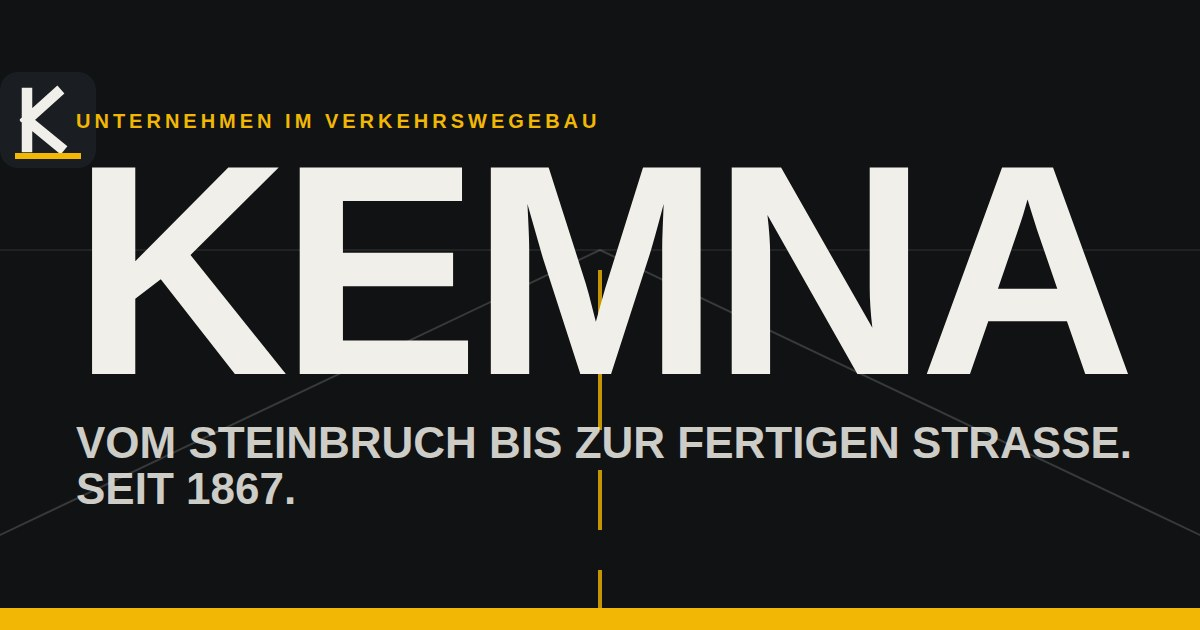
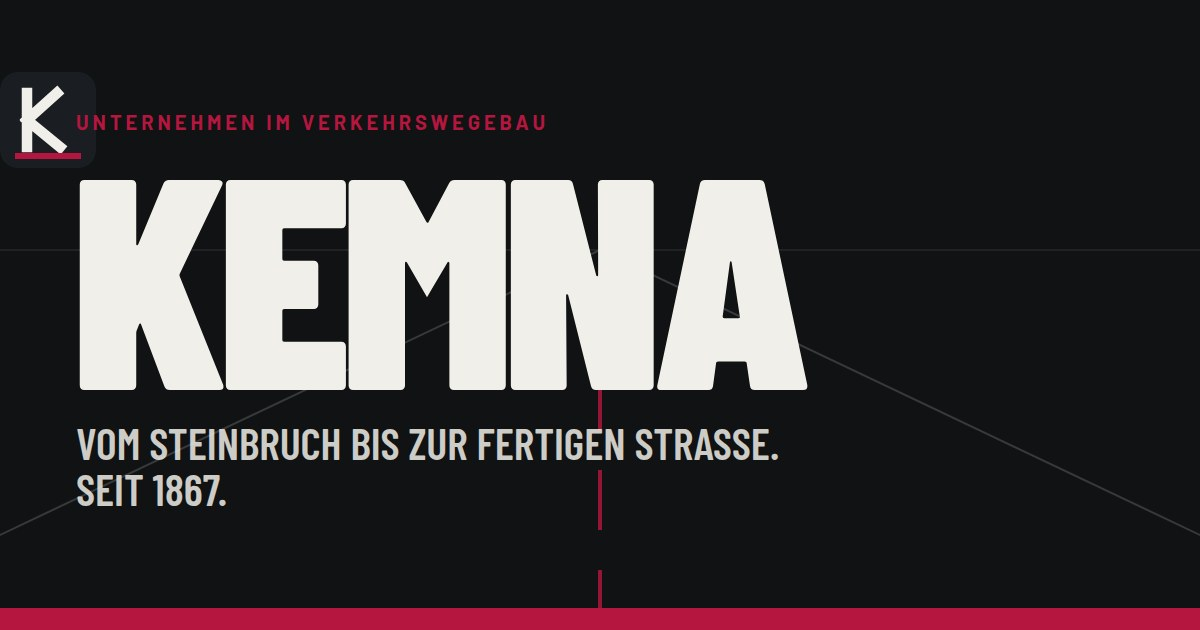
KEMNA: Farbschema auf Markenrot umgestellt
- Akzent #B5163F aus dem KEMNA-Logo gemessen; --accent-2 dunkler,
  --accent-text für Schrift auf Hell, neues --accent-light für Schrift
  und Akzente auf dunklem Grund (alle Paare ≥ 5,8:1)
- Rote Flächen (Buttons, Hero-Band, Karriere, Karriere-Slide, Chips,
  Gruppen-Marquee) tragen jetzt helle Schrift statt Ink
- Karriere-Sektion mit dunklem Nav-Thema, Tag darauf hell
- Straßenmittellinie, Asphalt-Hitzegradient, Schichtgrafik, Favicon,
  Apple-Touch-Icon, OG-Bild und Rechtsseiten nachgezogen
- OG-Bild jetzt mit echten Barlow-Schnitten gerendert
- README/DESIGN: Farbtabelle und Beschreibungen auf Rot

Claude-Session: https://claude.ai/code/session_01PZ8DJtPyt37yMJG6BSg7Dj

Changed region(s): [[0.0, 0.2413, 0.9558, 0.8143], [0.0, 0.9048, 1.0, 1.0], [0.0617, 0.181, 0.4933, 0.2111]]

diff --git a/kemna/style.css b/kemna/style.css
@@ -4,9 +4,10 @@
   --ink:#111214;
   --ink-2:#55575B;
   --ink-3:#8C8E92;
-  --accent:#F2B705;
-  --accent-2:#D99E00;
-  --accent-text:#8A5B00;
+  --accent:#B5163F;
+  --accent-2:#8F1132;
+  --accent-light:#FF5C6C;
+  --accent-text:#A3123A;
   --dark:#101214;
   --dark-2:#1A1D21;
   --display:'Barlow Condensed',Impact,'Arial Narrow',sans-serif;
@@ -32,14 +33,14 @@ a,button,[role="button"]{touch-action:manipulation}
 h1,h2,h3,h4,p,ol,ul{margin:0}
 ol,ul{padding:0;list-style:none}
 .sr-only{position:absolute;width:1px;height:1px;overflow:hidden;clip:rect(0 0 0 0);white-space:nowrap}
-::selection{background:var(--accent);color:var(--ink)}
+::selection{background:var(--accent);color:var(--paper)}
 
 /* ---------- Ankerziele nicht unter der festen Nav ---------- */
 section[id],[id="inhalt"],[id="top"]{scroll-margin-top:clamp(80px,12vh,120px)}
 
 /* ---------- focus ---------- */
 :focus-visible{outline:3px solid var(--ink);outline-offset:3px}
-.hero :focus-visible,.menu :focus-visible,.kette :focus-visible,.green :focus-visible,.footer :focus-visible,.project--wide :focus-visible,.nav.is-dark :focus-visible{outline-color:var(--accent)}
+.hero :focus-visible,.menu :focus-visible,.kette :focus-visible,.green :focus-visible,.footer :focus-visible,.project--wide :focus-visible,.nav.is-dark :focus-visible{outline-color:var(--accent-light)}
 .menu__links a:focus-visible{opacity:1}
 [tabindex="-1"]:focus{outline:none}
 .skip{position:absolute;left:var(--gutter);top:-100px;z-index:210;background:var(--ink);color:var(--paper);font-family:var(--display);font-weight:800;text-transform:uppercase;font-size:18px;padding:14px 20px;border-radius:10px;transition:top .2s var(--ease-out)}
@@ -48,7 +49,7 @@ section[id],[id="inhalt"],[id="top"]{scroll-margin-top:clamp(80px,12vh,120px)}
 /* ---------- buttons ---------- */
 .btn{display:inline-flex;align-items:center;gap:10px;font-family:var(--display);font-weight:800;text-transform:uppercase;letter-spacing:.02em;font-size:20px;line-height:1;padding:16px 26px;border-radius:12px;user-select:none;-webkit-user-select:none;transition:transform .16s var(--ease-out),background .2s ease,color .2s ease,border-color .2s ease}
 .btn i{font-style:normal;transition:transform .25s var(--ease-out)}
-.btn--accent{background:var(--accent);color:var(--ink);border:2px solid var(--ink)}
+.btn--accent{background:var(--accent);color:var(--paper);border:2px solid var(--accent-2)}
 .btn--ink{background:var(--ink);color:var(--paper);border:2px solid var(--ink)}
 .btn--outline{border:2px solid rgba(17,18,20,.3);color:var(--ink)}
 .btn--lg{font-size:24px;padding:20px 32px}
@@ -56,7 +57,7 @@ section[id],[id="inhalt"],[id="top"]{scroll-margin-top:clamp(80px,12vh,120px)}
 
 /* ---------- tags & headings ---------- */
 .tag{display:inline-block;font-family:var(--mono);font-size:13px;letter-spacing:.08em;padding:8px 14px;border:1px solid rgba(17,18,20,.3);border-radius:8px;margin-bottom:28px;color:var(--accent-text)}
-.tag--light{border-color:rgba(241,239,233,.3);color:var(--accent)}
+.tag--light{border-color:rgba(241,239,233,.3);color:var(--accent-light)}
 .tag--ink{border-color:rgba(17,18,20,.5);color:var(--ink)}
 .sec-h{font-family:var(--display);font-weight:900;text-transform:uppercase;line-height:.95;padding-top:.06em;letter-spacing:-.015em;font-size:clamp(52px,8vw,130px);text-wrap:balance}
 h1,h2,h3,.hero__claim,.kette__h,.green__h,.career__h,.callout__h,.intro__h,.project__h,.station h3,.era__text h3,.field__text h3{text-wrap:balance}
@@ -94,7 +95,7 @@ body.menu-open .nav{transform:none}
 .nav.is-dark .nav__burger{border-color:var(--paper)}
 body.menu-open{overflow:hidden}
 body.menu-open .nav{color:var(--paper)}
-body.menu-open .nav__cta{background:var(--accent);color:var(--ink);border-color:var(--ink)}
+body.menu-open .nav__cta{background:var(--accent);color:var(--paper);border-color:var(--accent-2)}
 body.menu-open .nav__burger{border-color:var(--paper)}
 body.menu-open .nav__burger span:first-child{transform:translateY(4.75px) rotate(45deg)}
 body.menu-open .nav__burger span:last-child{width:26px;transform:translateY(-4.75px) rotate(-45deg)}
@@ -121,15 +122,15 @@ body.menu-open .nav__burger span:last-child{width:26px;transform:translateY(-4.7
 .hero__road svg{width:100%;height:100%}
 .hero__noise{position:absolute;inset:0;z-index:1;pointer-events:none;opacity:.07;background-image:url("assets/img/noise.svg")}
 .hero__inner{position:absolute;inset:0;z-index:2;display:flex;flex-direction:column;align-items:center;justify-content:center;text-align:center;padding:0 var(--gutter)}
-.hero__eyebrow{font-size:12px;font-weight:700;letter-spacing:.2em;text-transform:uppercase;color:var(--accent);margin-bottom:clamp(14px,2vh,26px)}
+.hero__eyebrow{font-size:12px;font-weight:700;letter-spacing:.2em;text-transform:uppercase;color:var(--accent-light);margin-bottom:clamp(14px,2vh,26px)}
 .hero__title{font-family:var(--display);font-weight:900;text-transform:uppercase;line-height:.8;letter-spacing:-.03em;font-size:clamp(100px,22vw,420px);white-space:nowrap;user-select:none;-webkit-user-select:none;will-change:transform,opacity}
 .hero__title .ch{display:inline-block}
 .hero__claim{margin-top:clamp(18px,3vh,34px);font-family:var(--display);font-weight:600;text-transform:uppercase;font-size:clamp(20px,2.4vw,34px);line-height:1.05;letter-spacing:.01em;color:rgba(241,239,233,.92)}
-.hero__band{position:absolute;left:-10vw;right:-10vw;top:50%;z-index:3;background:var(--accent);color:var(--ink);transform:translateY(-50%) rotate(-4deg);padding:clamp(14px,1.6vw,24px) 0;overflow:hidden;opacity:0;pointer-events:none;will-change:transform,opacity}
+.hero__band{position:absolute;left:-10vw;right:-10vw;top:50%;z-index:3;background:var(--accent);color:var(--paper);transform:translateY(-50%) rotate(-4deg);padding:clamp(14px,1.6vw,24px) 0;overflow:hidden;opacity:0;pointer-events:none;will-change:transform,opacity}
 .hero__band-track{display:flex;width:max-content;white-space:nowrap;font-family:var(--display);font-weight:900;text-transform:uppercase;font-size:clamp(40px,6vw,96px);line-height:.9;letter-spacing:-.01em}
 .hero__band-track span{display:inline-block;will-change:transform}
 .hero__meta{position:absolute;left:max(var(--gutter),env(safe-area-inset-left));bottom:max(var(--gutter),env(safe-area-inset-bottom));z-index:4;display:flex;flex-direction:column;gap:6px;font-size:11px;font-weight:700;letter-spacing:.14em;text-transform:uppercase;color:rgba(241,239,233,.82)}
-.hero__meta span::before{content:"";display:inline-block;width:8px;height:8px;background:var(--accent);margin-right:10px;vertical-align:1px}
+.hero__meta span::before{content:"";display:inline-block;width:8px;height:8px;background:var(--accent-light);margin-right:10px;vertical-align:1px}
 .hero__scroll{position:absolute;right:max(var(--gutter),env(safe-area-inset-right));bottom:max(var(--gutter),env(safe-area-inset-bottom));z-index:4;display:flex;flex-direction:column;align-items:center;gap:10px;font-size:10px;font-weight:700;letter-spacing:.14em;text-transform:uppercase}
 .hero__scroll i{width:1.5px;height:44px;background:var(--paper);display:block;transform-origin:top;animation:scrollline 1.8s cubic-bezier(.65,0,.35,1) infinite}
 @keyframes scrollline{0%{transform:scaleY(0);transform-origin:top}45%{transform:scaleY(1);transform-origin:top}55%{transform:scaleY(1);transform-origin:bottom}100%{transform:scaleY(0);transform-origin:bottom}}
@@ -178,7 +179,7 @@ body.menu-open .nav__burger span:last-child{width:26px;transform:translateY(-4.7
 .kette__pin{height:100vh;height:100svh;overflow:hidden;position:relative}
 .kette__pin::before{content:"";position:absolute;inset:0;background:repeating-linear-gradient(0deg,rgba(255,255,255,.035) 0 1px,transparent 1px 72px),repeating-linear-gradient(90deg,rgba(255,255,255,.035) 0 1px,transparent 1px 72px);-webkit-mask:radial-gradient(ellipse at 50% 50%,#000 30%,transparent 85%);mask:radial-gradient(ellipse at 50% 50%,#000 30%,transparent 85%);pointer-events:none}
 .kette__marker{position:absolute;left:0;right:0;top:50%;height:2px;background:rgba(241,239,233,.12);pointer-events:none}
-.kette__marker::after{content:"";position:absolute;left:50%;top:50%;width:14px;height:14px;border-radius:50%;background:var(--accent);transform:translate(-50%,-50%);box-shadow:0 0 0 6px rgba(242,183,5,.18),0 0 26px 8px rgba(242,183,5,.45)}
+.kette__marker::after{content:"";position:absolute;left:50%;top:50%;width:14px;height:14px;border-radius:50%;background:var(--accent);transform:translate(-50%,-50%);box-shadow:0 0 0 6px rgba(255,92,108,.18),0 0 26px 8px rgba(255,92,108,.45)}
 .kette__track{position:absolute;inset:0;display:flex;align-items:center;gap:clamp(40px,6vw,120px);padding:0 var(--gutter);width:max-content;will-change:transform}
 .kette__intro{flex:none;width:clamp(320px,38vw,620px);padding-right:clamp(20px,4vw,80px)}
 .kette__h{font-family:var(--display);font-weight:900;text-transform:uppercase;line-height:.88;letter-spacing:-.02em;font-size:clamp(64px,9vw,150px)}
@@ -186,12 +187,12 @@ body.menu-open .nav__burger span:last-child{width:26px;transform:translateY(-4.7
 .kette__list{display:flex;gap:clamp(40px,6vw,120px);align-items:center}
 .station{flex:none;width:clamp(260px,26vw,380px);position:relative;transition:color .4s}
 .station__num{display:block;font-family:var(--display);font-weight:900;font-size:22px;color:rgba(241,239,233,.55);margin-bottom:18px;transition:color .4s}
-.station.is-active .station__num{color:var(--accent)}
+.station.is-active .station__num{color:var(--accent-light)}
 .station__icon{width:80px;height:80px;margin-bottom:22px;color:var(--paper);opacity:.85}
 .station h3{font-family:var(--display);font-weight:800;text-transform:uppercase;font-size:clamp(34px,3.4vw,52px);line-height:.95;margin-bottom:12px}
 .station p{font-size:15px;line-height:1.6;color:rgba(241,239,233,.72);max-width:320px}
 .kette__end{flex:none;display:flex;flex-direction:column;justify-content:center;padding:0 clamp(40px,8vw,160px) 0 clamp(20px,4vw,80px)}
-.kette__end-big{font-family:var(--display);font-weight:900;font-size:clamp(120px,18vw,300px);line-height:.85;letter-spacing:-.03em;color:var(--accent)}
+.kette__end-big{font-family:var(--display);font-weight:900;font-size:clamp(120px,18vw,300px);line-height:.85;letter-spacing:-.03em;color:var(--accent-light)}
 .kette__end-small{font-family:var(--display);font-weight:600;text-transform:uppercase;font-size:clamp(22px,2.4vw,36px);margin-top:10px}
 @media (max-width:760px){.kette__intro{width:80vw}.station{width:74vw}.station p{max-width:100%}.kette__marker{display:none}}
 /* Ohne GSAP bleibt die Kette sonst hinter dem Rand liegen — dann als Liste untereinander */
@@ -211,7 +212,7 @@ body.menu-open .nav__burger span:last-child{width:26px;transform:translateY(-4.7
 .project{display:flex;flex-direction:column;gap:14px;min-width:0;background:#fff;border:1px solid rgba(17,18,20,.12);border-radius:18px;padding:clamp(24px,2.6vw,38px);min-height:320px;transition:transform .25s var(--ease-out),box-shadow .25s var(--ease-out)}
 .project--wide{grid-column:span 2;background:var(--ink);color:var(--paper);border-color:var(--ink)}
 .project__kind{font-size:12px;font-weight:700;letter-spacing:.14em;text-transform:uppercase;color:var(--accent-text)}
-.project--wide .project__kind{color:var(--accent)}
+.project--wide .project__kind{color:var(--accent-light)}
 .project__h{font-family:var(--display);font-weight:800;text-transform:uppercase;font-size:clamp(30px,3vw,46px);line-height:.95;overflow-wrap:anywhere}
 .project--wide .project__h{font-size:clamp(40px,4.6vw,76px)}
 .project p{flex:1;font-size:15px;line-height:1.6;color:var(--ink-2);max-width:520px}
@@ -234,7 +235,7 @@ body.menu-open .nav__burger span:last-child{width:26px;transform:translateY(-4.7
 .green__list{display:flex;flex-direction:column}
 .green__item{padding:clamp(26px,3vw,44px) 0;border-top:1px solid rgba(241,239,233,.18);display:grid;grid-template-columns:60px 1fr;gap:6px 20px}
 .green__item:last-child{border-bottom:1px solid rgba(241,239,233,.18)}
-.green__num{font-family:var(--display);font-weight:900;font-size:26px;color:var(--accent);grid-row:1/3}
+.green__num{font-family:var(--display);font-weight:900;font-size:26px;color:var(--accent-light);grid-row:1/3}
 .green__item h3{font-family:var(--display);font-weight:800;text-transform:uppercase;font-size:clamp(26px,2.4vw,38px);line-height:1}
 .green__item p{font-size:15px;line-height:1.6;color:rgba(241,239,233,.72);max-width:440px}
 @media (max-width:900px){.green__inner{grid-template-columns:1fr}}
@@ -287,7 +288,7 @@ body.menu-open .nav__burger span:last-child{width:26px;transform:translateY(-4.7
 @media (prefers-reduced-motion:no-preference){.slides__track{scroll-behavior:smooth}}
 .slide{flex:none;scroll-snap-align:start;width:min(calc(100% - 72px),1120px);min-height:clamp(380px,44vw,560px);display:grid;grid-template-columns:1.05fr .95fr;border-radius:var(--r-lg);overflow:hidden;background:var(--dark);color:var(--paper)}
 .slide__text{display:flex;flex-direction:column;justify-content:flex-end;gap:18px;padding:clamp(28px,4vw,64px)}
-.slide__kicker{font-family:var(--mono);font-size:12px;letter-spacing:.12em;text-transform:uppercase;color:var(--accent)}
+.slide__kicker{font-family:var(--mono);font-size:12px;letter-spacing:.12em;text-transform:uppercase;color:var(--accent-light)}
 .slide__h{font-family:var(--display);font-weight:900;text-transform:uppercase;line-height:.92;letter-spacing:-.015em;font-size:clamp(38px,4.6vw,72px);text-wrap:balance}
 .slide__p{max-width:460px;font-size:clamp(15px,1.15vw,18px);line-height:1.6;color:rgba(241,239,233,.8);text-wrap:pretty}
 .slide__link{align-self:flex-start;display:inline-flex;align-items:center;gap:10px;margin-top:6px;padding-bottom:4px;border-bottom:2px solid currentColor;font-family:var(--display);font-weight:800;text-transform:uppercase;font-size:20px;line-height:1;color:inherit;text-decoration:none;touch-action:manipulation;-webkit-tap-highlight-color:transparent}
@@ -298,23 +299,23 @@ body.menu-open .nav__burger span:last-child{width:26px;transform:translateY(-4.7
 .slide--people .slide__visual{display:flex;align-items:center;padding:clamp(28px,4vw,64px);background:var(--dark-2)}
 .slide__roles{display:flex;flex-wrap:wrap;gap:10px;margin:0;padding:0;list-style:none}
 .slide__roles li{font-family:var(--display);font-weight:700;text-transform:uppercase;font-size:clamp(18px,1.8vw,26px);line-height:1;padding:12px 16px;border:1.5px solid rgba(241,239,233,.35);border-radius:10px;color:var(--paper)}
-.slide__roles li:nth-child(3n){background:var(--accent);border-color:var(--accent);color:var(--ink)}
+.slide__roles li:nth-child(3n){background:var(--accent);border-color:var(--accent);color:var(--paper)}
 /* 02 Nachhaltigkeit: Werksfoto mit Marken */
 .slide--green .slide__visual img{position:absolute;inset:0;width:100%;height:100%;object-fit:cover;object-position:40% 50%}
 .slide--green .slide__visual::after{content:"";position:absolute;inset:0;background:linear-gradient(to right,rgba(16,18,20,.55),rgba(16,18,20,0) 40%)}
 .slide__marks{position:absolute;left:clamp(20px,3vw,40px);bottom:clamp(20px,3vw,40px);z-index:1;display:flex;flex-wrap:wrap;gap:8px;margin:0;padding:0;list-style:none}
 .slide__marks li{font-family:var(--mono);font-size:12px;letter-spacing:.08em;padding:8px 12px;border-radius:8px;background:rgba(16,18,20,.7);border:1px solid rgba(241,239,233,.25);color:var(--paper);backdrop-filter:blur(6px);-webkit-backdrop-filter:blur(6px)}
-/* 03 Karriere: Gelb, Streifen, Störer */
-.slide--career{background:var(--accent);color:var(--ink)}
-.slide--career .slide__kicker{color:var(--ink)}
-.slide--career .slide__p{color:rgba(17,18,20,.78)}
+/* 03 Karriere: Rot, Streifen, Störer */
+.slide--career{background:var(--accent);color:var(--paper)}
+.slide--career .slide__kicker{color:var(--paper)}
+.slide--career .slide__p{color:rgba(241,239,233,.82)}
 .slide--career .slide__visual{display:flex;align-items:flex-end;justify-content:flex-end;padding:clamp(28px,4vw,64px)}
 .slide__stripes{display:flex;gap:clamp(12px,1.6vw,22px);height:70%}
 .slide__stripes i{display:block;width:clamp(16px,2vw,32px);background:var(--ink);transform:skewX(-14deg);transform-origin:bottom;align-self:flex-end;height:100%}
 .slide__stripes i:nth-child(1){height:55%}
 .slide__stripes i:nth-child(2){height:80%}
 .slide__stripes i:nth-child(3){height:65%}
-.slide__badge{position:absolute;left:clamp(20px,3vw,48px);top:clamp(20px,3vw,48px);width:clamp(130px,15vw,200px);aspect-ratio:1;border-radius:50%;display:grid;place-items:center;padding:14px;text-align:center;background:var(--ink);color:var(--accent);font-family:var(--display);font-weight:900;text-transform:uppercase;font-size:clamp(22px,2.6vw,36px);line-height:.9;transform:rotate(-12deg)}
+.slide__badge{position:absolute;left:clamp(20px,3vw,48px);top:clamp(20px,3vw,48px);width:clamp(130px,15vw,200px);aspect-ratio:1;border-radius:50%;display:grid;place-items:center;padding:14px;text-align:center;background:var(--ink);color:var(--accent-light);font-family:var(--display);font-weight:900;text-transform:uppercase;font-size:clamp(22px,2.6vw,36px);line-height:.9;transform:rotate(-12deg)}
 .no-js .slides__nav,.js-failed .slides__nav{display:none}
 @media (max-width:760px){
   .slides__head{flex-direction:column;align-items:flex-start;gap:20px}
@@ -335,16 +336,17 @@ body.menu-open .nav__burger span:last-child{width:26px;transform:translateY(-4.7
 .group__track{display:flex;width:max-content;gap:clamp(14px,1.6vw,24px);will-change:transform}
 .group__track span{display:inline-block;white-space:nowrap;font-family:var(--display);font-weight:800;text-transform:uppercase;font-size:clamp(28px,3.6vw,56px);line-height:1;padding:clamp(12px,1.4vw,20px) clamp(18px,2.2vw,32px);border:1.5px solid var(--ink);border-radius:12px;background:var(--paper)}
 .group__track[data-group-track="-1"] span:nth-child(odd){background:var(--ink);color:var(--paper)}
-.group__track[data-group-track="1"] span:nth-child(even){background:var(--accent);border-color:var(--ink)}
+.group__track[data-group-track="1"] span:nth-child(even){background:var(--accent);border-color:var(--accent-2);color:var(--paper)}
 @media (max-width:760px){.group__head{grid-template-columns:1fr}.group__p{justify-self:start}}
 
-/* ---------- career (loud yellow) ---------- */
-.career{padding:clamp(90px,10vw,150px) var(--gutter);background:var(--accent);color:var(--ink);position:relative;overflow:hidden}
+/* ---------- career (Markenrot) ---------- */
+.career{padding:clamp(90px,10vw,150px) var(--gutter);background:var(--accent);color:var(--paper);position:relative;overflow:hidden}
 .career__inner{position:relative;display:grid;grid-template-columns:1.2fr .8fr;gap:clamp(30px,5vw,80px);align-items:center;max-width:1500px;margin:0 auto}
 .career__h{font-family:var(--display);font-weight:900;text-transform:uppercase;line-height:.88;letter-spacing:-.02em;font-size:clamp(60px,10vw,170px)}
 .career__p{margin:26px 0 34px;max-width:520px;font-size:clamp(16px,1.25vw,19px);line-height:1.6}
 .career__actions{display:flex;gap:14px;flex-wrap:wrap}
-.career .btn--outline{border-color:rgba(17,18,20,.45)}
+.career .btn--outline{border-color:rgba(241,239,233,.55);color:var(--paper)}
+.career .tag{border-color:rgba(241,239,233,.45);color:var(--paper)}
 .career__stripes{display:flex;gap:clamp(14px,2vw,30px);justify-content:flex-end;height:clamp(200px,34vh,420px)}
 .career__stripes i{display:block;width:clamp(18px,2.6vw,42px);background:var(--ink);transform:skewX(-14deg);transform-origin:bottom}
 .career__stripes i:nth-child(2){height:80%;align-self:flex-end}
@@ -371,7 +373,7 @@ body.menu-open .nav__burger span:last-child{width:26px;transform:translateY(-4.7
 .footer{position:relative;background:var(--dark);color:var(--paper);padding:clamp(70px,8vw,120px) var(--gutter) max(30px,env(safe-area-inset-bottom));overflow:hidden}
 .footer__top{position:relative;display:grid;grid-template-columns:1.2fr 1fr;gap:clamp(40px,5vw,90px);align-items:end}
 .footer__brand{display:flex;flex-direction:column;gap:14px}
-.footer__big{font-family:var(--display);font-weight:900;text-transform:uppercase;line-height:.82;letter-spacing:-.03em;font-size:clamp(80px,13vw,220px);white-space:nowrap;user-select:none;-webkit-user-select:none;color:var(--accent)}
+.footer__big{font-family:var(--display);font-weight:900;text-transform:uppercase;line-height:.82;letter-spacing:-.03em;font-size:clamp(80px,13vw,220px);white-space:nowrap;user-select:none;-webkit-user-select:none;color:var(--accent-light)}
 .footer__big .ch{display:inline-block}
 .footer__tag{font-size:12px;font-weight:700;letter-spacing:.14em;text-transform:uppercase;opacity:.75}
 .footer__cols{display:grid;grid-template-columns:repeat(3,1fr);gap:24px}
@@ -397,12 +399,12 @@ body.menu-open .nav__burger span:last-child{width:26px;transform:translateY(-4.7
   .nav__cta:hover{transform:none}
   .nav__burger:hover{background:var(--ink);color:var(--paper)}
   .nav.is-dark .nav__burger:hover{background:var(--paper);color:var(--ink)}
-  .menu__links a:hover{opacity:1;transform:translateX(12px);color:var(--accent)}
-  .menu__foot a:hover{color:var(--accent)}
+  .menu__links a:hover{opacity:1;transform:translateX(12px);color:var(--accent-light)}
+  .menu__foot a:hover{color:var(--accent-light)}
   .project:hover{transform:translateY(-8px);box-shadow:0 40px 70px -40px rgba(17,18,20,.5)}
   .callout__card a:hover{color:var(--ink)}
-  .footer__cols a:hover{color:var(--accent)}
-  .footer__bottom a:hover{color:var(--accent)}
+  .footer__cols a:hover{color:var(--accent-light)}
+  .footer__bottom a:hover{color:var(--accent-light)}
 }
 
 /* ---------- responsive ---------- */

diff --git a/kemna/impressum.html b/kemna/impressum.html
@@ -16,20 +16,20 @@
   *{box-sizing:border-box}
   html{-webkit-text-size-adjust:100%}
   body{margin:0;background:#F1EFE9;color:#111214;font-family:'Barlow',-apple-system,system-ui,sans-serif;font-weight:400;-webkit-font-smoothing:antialiased}
-  a{color:#8A5B00;text-decoration:none}
+  a{color:#A3123A;text-decoration:none}
   a:hover{text-decoration:underline}
   :focus-visible{outline:3px solid #111214;outline-offset:3px}
   nav{position:sticky;top:0;z-index:60;display:flex;align-items:center;justify-content:space-between;gap:20px;padding:14px clamp(20px,5vw,64px);background:rgba(241,239,233,.92);backdrop-filter:blur(10px);-webkit-backdrop-filter:blur(10px);border-bottom:1px solid rgba(17,18,20,.1)}
   nav .mark{font-family:'Barlow Condensed',Impact,sans-serif;font-weight:900;font-size:28px;text-transform:uppercase;color:#111214;letter-spacing:-.01em}
   nav .back{background:#111214;color:#F1EFE9;font-family:'Barlow Condensed',Impact,sans-serif;font-weight:800;text-transform:uppercase;font-size:17px;padding:11px 20px;border-radius:10px}
-  nav .back:hover{text-decoration:none;background:#F2B705;color:#111214}
+  nav .back:hover{text-decoration:none;background:#B5163F;color:#F1EFE9}
   .wrap{max-width:820px;margin:0 auto;padding:clamp(48px,7vw,96px) clamp(20px,5vw,48px)}
   .wrap h1{font-family:'Barlow Condensed',Impact,sans-serif;font-weight:900;text-transform:uppercase;font-size:clamp(44px,7vw,88px);line-height:.95;letter-spacing:-.02em;margin:0 0 8px}
   .wrap .lead{color:#55575B;font-weight:700;font-size:12px;letter-spacing:.14em;text-transform:uppercase;margin:0 0 clamp(28px,4vw,44px)}
   .wrap h2{font-family:'Barlow Condensed',Impact,sans-serif;font-weight:800;text-transform:uppercase;font-size:clamp(22px,2.4vw,28px);margin:clamp(28px,3.5vw,40px) 0 10px}
   .wrap p{font-size:16px;line-height:1.7;color:#3A3A3C;margin:0 0 12px}
   .wrap strong{color:#111214}
-  .todo{background:#fff;border:1px dashed #D99E00;border-radius:10px;padding:14px 16px;color:#8A5B00;font-size:14px}
+  .todo{background:#fff;border:1px dashed #8F1132;border-radius:10px;padding:14px 16px;color:#A3123A;font-size:14px}
   footer{border-top:1px solid rgba(17,18,20,.1);padding:clamp(30px,4vw,48px) clamp(20px,5vw,64px);display:flex;flex-wrap:wrap;align-items:center;justify-content:space-between;gap:14px 28px;font-size:13px;font-weight:600;color:#55575B}
   footer a{color:#111214;margin-left:18px}
 </style>

diff --git a/kemna/datenschutz.html b/kemna/datenschutz.html
@@ -16,13 +16,13 @@
   *{box-sizing:border-box}
   html{-webkit-text-size-adjust:100%}
   body{margin:0;background:#F1EFE9;color:#111214;font-family:'Barlow',-apple-system,system-ui,sans-serif;font-weight:400;-webkit-font-smoothing:antialiased}
-  a{color:#8A5B00;text-decoration:none}
+  a{color:#A3123A;text-decoration:none}
   a:hover{text-decoration:underline}
   :focus-visible{outline:3px solid #111214;outline-offset:3px}
   nav{position:sticky;top:0;z-index:60;display:flex;align-items:center;justify-content:space-between;gap:20px;padding:14px clamp(20px,5vw,64px);background:rgba(241,239,233,.92);backdrop-filter:blur(10px);-webkit-backdrop-filter:blur(10px);border-bottom:1px solid rgba(17,18,20,.1)}
   nav .mark{font-family:'Barlow Condensed',Impact,sans-serif;font-weight:900;font-size:28px;text-transform:uppercase;color:#111214;letter-spacing:-.01em}
   nav .back{background:#111214;color:#F1EFE9;font-family:'Barlow Condensed',Impact,sans-serif;font-weight:800;text-transform:uppercase;font-size:17px;padding:11px 20px;border-radius:10px}
-  nav .back:hover{text-decoration:none;background:#F2B705;color:#111214}
+  nav .back:hover{text-decoration:none;background:#B5163F;color:#F1EFE9}
   .wrap{max-width:820px;margin:0 auto;padding:clamp(48px,7vw,96px) clamp(20px,5vw,48px)}
   .wrap h1{font-family:'Barlow Condensed',Impact,sans-serif;font-weight:900;text-transform:uppercase;font-size:clamp(44px,7vw,88px);line-height:.95;letter-spacing:-.02em;margin:0 0 8px}
   .wrap .lead{color:#55575B;font-weight:700;font-size:12px;letter-spacing:.14em;text-transform:uppercase;margin:0 0 clamp(28px,4vw,44px)}
@@ -31,7 +31,7 @@
   .wrap p,.wrap li{font-size:16px;line-height:1.7;color:#3A3A3C;margin:0 0 12px}
   .wrap ul{padding-left:20px;margin:0 0 12px}
   .wrap strong{color:#111214}
-  .todo{background:#fff;border:1px dashed #D99E00;border-radius:10px;padding:14px 16px;color:#8A5B00;font-size:14px}
+  .todo{background:#fff;border:1px dashed #8F1132;border-radius:10px;padding:14px 16px;color:#A3123A;font-size:14px}
   footer{border-top:1px solid rgba(17,18,20,.1);padding:clamp(30px,4vw,48px) clamp(20px,5vw,64px);display:flex;flex-wrap:wrap;align-items:center;justify-content:space-between;gap:14px 28px;font-size:13px;font-weight:600;color:#55575B}
   footer a{color:#111214;margin-left:18px}
 </style>

diff --git a/kemna/index.html b/kemna/index.html
@@ -104,7 +104,7 @@
         <path d="M2120 1080 L960 430" stroke="#F1EFE9" stroke-opacity=".28" stroke-width="2" fill="none"/>
         <path d="M-700 1080 L960 430" stroke="#F1EFE9" stroke-opacity=".12" stroke-width="1.4" fill="none"/>
         <path d="M2620 1080 L960 430" stroke="#F1EFE9" stroke-opacity=".12" stroke-width="1.4" fill="none"/>
-        <path d="M960 1080 L960 430" stroke="#F2B705" stroke-opacity=".9" stroke-width="3" fill="none" stroke-dasharray="90 60" data-road-dash/>
+        <path d="M960 1080 L960 430" stroke="#FF5C6C" stroke-opacity=".9" stroke-width="3" fill="none" stroke-dasharray="90 60" data-road-dash/>
       </g>
       <path d="M0 430 H1920" stroke="#F1EFE9" stroke-opacity=".2" stroke-width="1" data-road-horizon/>
     </svg>
@@ -285,7 +285,7 @@
       </div>
       <div class="field__media field__media--asphalt" aria-hidden="true">
         <svg viewBox="0 0 800 600" data-asphalt-svg>
-          <defs><radialGradient id="heat" cx="50%" cy="50%" r="55%"><stop offset="0" stop-color="#F2B705" stop-opacity=".9"/><stop offset=".55" stop-color="#F2B705" stop-opacity=".15"/><stop offset="1" stop-color="#F2B705" stop-opacity="0"/></radialGradient></defs>
+          <defs><radialGradient id="heat" cx="50%" cy="50%" r="55%"><stop offset="0" stop-color="#B5163F" stop-opacity=".9"/><stop offset=".55" stop-color="#B5163F" stop-opacity=".15"/><stop offset="1" stop-color="#F2B705" stop-opacity="0"/></radialGradient></defs>
           <circle cx="400" cy="300" r="260" fill="url(#heat)"/>
           <g fill="#111214" data-asphalt-grain></g>
           <circle cx="400" cy="300" r="200" fill="none" stroke="#111214" stroke-width="1.5" stroke-dasharray="4 10"/>
@@ -476,7 +476,7 @@
 </section>
 
 <!-- ============ KARRIERE ============ -->
-<section class="career" data-nav-theme="light" data-nav-accent="ink">
+<section class="career" data-nav-theme="dark" data-nav-accent="ink">
   <div class="career__inner">
     <div class="career__text">
       <span class="tag tag--ink">Karriere</span>

diff --git a/kemna/main.js b/kemna/main.js
@@ -209,7 +209,7 @@
         onToggle: (st) => {
           if (!st.isActive) return;
           nav.classList.toggle('is-dark', sec.dataset.navTheme === 'dark');
-          // Der gelbe Karriere-Block verschluckt den gelben CTA — dort wird er dunkel.
+          // Der rote Karriere-Block verschluckt den roten CTA — dort wird er dunkel.
           nav.classList.toggle('is-oncolor', sec.dataset.navAccent === 'ink');
           setBarColor(sec);
         },
@@ -343,7 +343,7 @@
       const p = document.createElementNS('http://www.w3.org/2000/svg', 'path');
       p.setAttribute('d', d + ' Z');
       p.setAttribute('stroke-opacity', String(0.9 - k * 0.07));
-      if (k === 0) { p.setAttribute('fill', '#F2B705'); p.setAttribute('fill-opacity', '.85'); }
+      if (k === 0) { p.setAttribute('fill', '#B5163F'); p.setAttribute('fill-opacity', '.85'); }
       g.appendChild(p);
     }
     const ramp = document.createElementNS('http://www.w3.org/2000/svg', 'path');

diff --git a/kemna/DESIGN.md b/kemna/DESIGN.md
@@ -19,7 +19,7 @@ nachgezogen.
 ## 1. Thema & Atmosphäre
 
 Industriell und geerdet, nicht verspielt. Die Seite ist aus Asphalt, Beton und
-Markierungsgelb gebaut: ein fast schwarzer Hero mit Straßenperspektive, dann
+Markenrot gebaut: ein fast schwarzer Hero mit Straßenperspektive, dann
 ein warmes Betongrau als Arbeitsfläche, dazwischen dunkle Kapitel. Der Kontrast
 zwischen riesiger Condensed-Versalie und kleinem, ruhigem Fließtext trägt die
 ganze Seite.
@@ -44,21 +44,22 @@ zwischen hell und dunkel wie Kapitel.
 | `--ink` | `#111214` | Text, Rahmen, Icons |
 | `--ink-2` | `#55575B` | Fließtext, Labels auf Weiß |
 | `--ink-3` | `#8C8E92` | nur Deko, **nie für Text** (3,28:1) |
-| `--accent` | `#F2B705` | Markierungsgelb als **Fläche**: Buttons, Karriere-Sektion, Bänder |
-| `--accent-2` | `#D99E00` | nur als Fläche oder Rahmen, **nie als Text auf Papier** (2,07:1) |
-| `--accent-text` | `#8A5B00` | gelbliche **Schrift** auf hellem Grund (5,11:1) |
+| `--accent` | `#B5163F` | Markenrot aus dem Logo als **Fläche**: Buttons, Karriere-Sektion, Bänder; Text darauf ist `--paper` |
+| `--accent-2` | `#8F1132` | dunkleres Rot für Rahmen und Tiefe von `--accent` |
+| `--accent-light` | `#FF5C6C` | helles Rot für **Schrift und Akzente auf dunklem Grund** (6,3:1) |
+| `--accent-text` | `#A3123A` | rote **Schrift** auf hellem Grund (6,5:1) |
 | `--dark` | `#101214` | dunkle Sektionen, Hero, Footer |
 | `--dark-2` | `#1A1D21` | Flächen in dunklen Sektionen |
 
 Regeln, die hier zweimal falsch gemacht wurden:
 
 1. `--accent` und `--accent-2` sind **Flächenfarben**. Als Text auf `--paper`
-   fallen sie durch die Kontrastprüfung. Für gelbliche Schrift auf Hell gibt es
+   fallen sie durch die Kontrastprüfung. Für rote Schrift auf Hell gibt es
    `--accent-text`. Auf `--dark` darf `--accent` Text sein (11,3:1).
 2. `--ink-3` ist zu hell für Text. Labels auf Weiß nehmen `--ink-2`.
 3. Jede Sektion braucht `data-nav-theme="light|dark"`, sonst bleibt die
-   Navigation auf dem Zustand der Sektion davor. Die gelbe Karriere-Sektion
-   trägt zusätzlich `data-nav-accent="ink"`, weil der gelbe CTA sonst in ihr
+   Navigation auf dem Zustand der Sektion davor. Die rote Karriere-Sektion
+   trägt zusätzlich `data-nav-accent="ink"`, weil der rote CTA sonst in ihr
    verschwindet.
 
 ## 3. Typografie
@@ -102,8 +103,8 @@ Größen kommen aus `clamp()`, nicht aus Media Queries:
 `border-radius:12px`. Hover nur hinter `@media (hover:hover) and (pointer:fine)`,
 Druckfeedback über `:active{transform:scale(.97)}` in `160ms var(--ease-out)`.
 
-- `.btn--accent`: gelbe Fläche, `2px solid var(--ink)`. Der Haupt-CTA.
-- `.btn--ink`: dunkle Fläche, für helle und gelbe Sektionen.
+- `.btn--accent`: rote Fläche, `2px solid var(--accent-2)`, Schrift `--paper`. Der Haupt-CTA.
+- `.btn--ink`: dunkle Fläche, für helle und rote Sektionen.
 - `.btn--outline`: nur Rahmen, als zweite Option neben einem gefüllten Button.
 - `.btn--lg`: `24px`, `padding:20px 32px` — Call-to-Action auf Seitenebene.
 
@@ -118,7 +119,7 @@ das ist ein Alltagszustand.
 Rahmen auf Weiß. Beschriftungen bleiben links vom rechten viewBox-Rand mit
 Sicherheitsabstand — bei Ersatzschriften laufen sie sonst heraus.
 
-**Listen mit Quadrat** (`.field__list`): `10px` gelbes Quadrat statt Punkt.
+**Listen mit Quadrat** (`.field__list`): `10px` rotes Quadrat statt Punkt.
 Das Quadrat ist die einzige Aufzählungsform der Seite.
 
 ## 5. Layout
@@ -207,8 +208,8 @@ kritische Inhalte — Telefonnummer, Anschrift, Rechtstexte — bekommen **nie**
 - „Baue eine Referenzseite für ein Autobahnprojekt mit diesem Designsystem:
   dunkler Hero mit Kennzahlen, dreispaltiger Bauablauf, Kontakt-Callout."
 - „Ergänze eine Standortübersicht. Betongrauer Grund, eine weiße Karte je
-  Niederlassung, Gelb nur als Akzent auf der Kartenmarkierung."
-- „Entwirf die Karriere-Unterseite: gleiches Typosystem, Gelb als Grundfläche,
+  Niederlassung, Rot nur als Akzent auf der Kartenmarkierung."
+- „Entwirf die Karriere-Unterseite: gleiches Typosystem, Rot als Grundfläche,
   Stellenliste als Karten, ohne neue Farben."
 - „Schreib die Mobilregeln für diese Sektion" — erwartet Umbruchreihenfolge,
   Seitenrand, Touch-Ziele und Reduced-Motion-Verhalten.

diff --git a/kemna/README.md b/kemna/README.md
@@ -51,18 +51,18 @@ Weiter offen:
 - **Weitere Fotos.** Die übrigen Visuals sind aus Code erzeugte SVG.
   Steinbruch-Höhenlinien, Asphaltkörnung und Schichtaufbau können als
   Erklärgrafiken bleiben.
-- **Akzentfarbe.** Markierungsgelb `#F2B705` ist ein Vorschlag. Die Tokens stehen
+- **Akzentfarbe.** Markenrot `#B5163F`, aus dem KEMNA-Logo gemessen. Die Tokens stehen
   oben in `style.css`, ein Tausch gegen die CI-Farbe ist eine Zeile.
 
 ## Sektionen
 
-Hero (gepinnt, Werksfoto unter Straßenlinien, Wortmarke schrumpft, gelbes
+Hero (gepinnt, Werksfoto unter Straßenlinien, Wortmarke schrumpft, rotes
 Band) → Referenzen & Partner (Logo-Band) → Intro + Kennzahlen → Themen-Slider
 (Mitarbeitende, Nachhaltigkeit & Transparenz, Karriere; Scroll-Snap, Tasten,
 Touch, Pfeiltasten) → Leistungen (Zickzack mit Erklärgrafiken) →
 Wertschöpfungskette (horizontal gepinnt, fünf Stationen) → Einsatzbereiche →
 Verantwortung (Wort-für-Wort-Scrub) → Geschichte (Zeitlinie) → Gruppe
-(Namens-Marquee) → Karriere (gelb) → Kontakt → Footer.
+(Namens-Marquee) → Karriere (rot) → Kontakt → Footer.
 
 ## Robustheit
 
